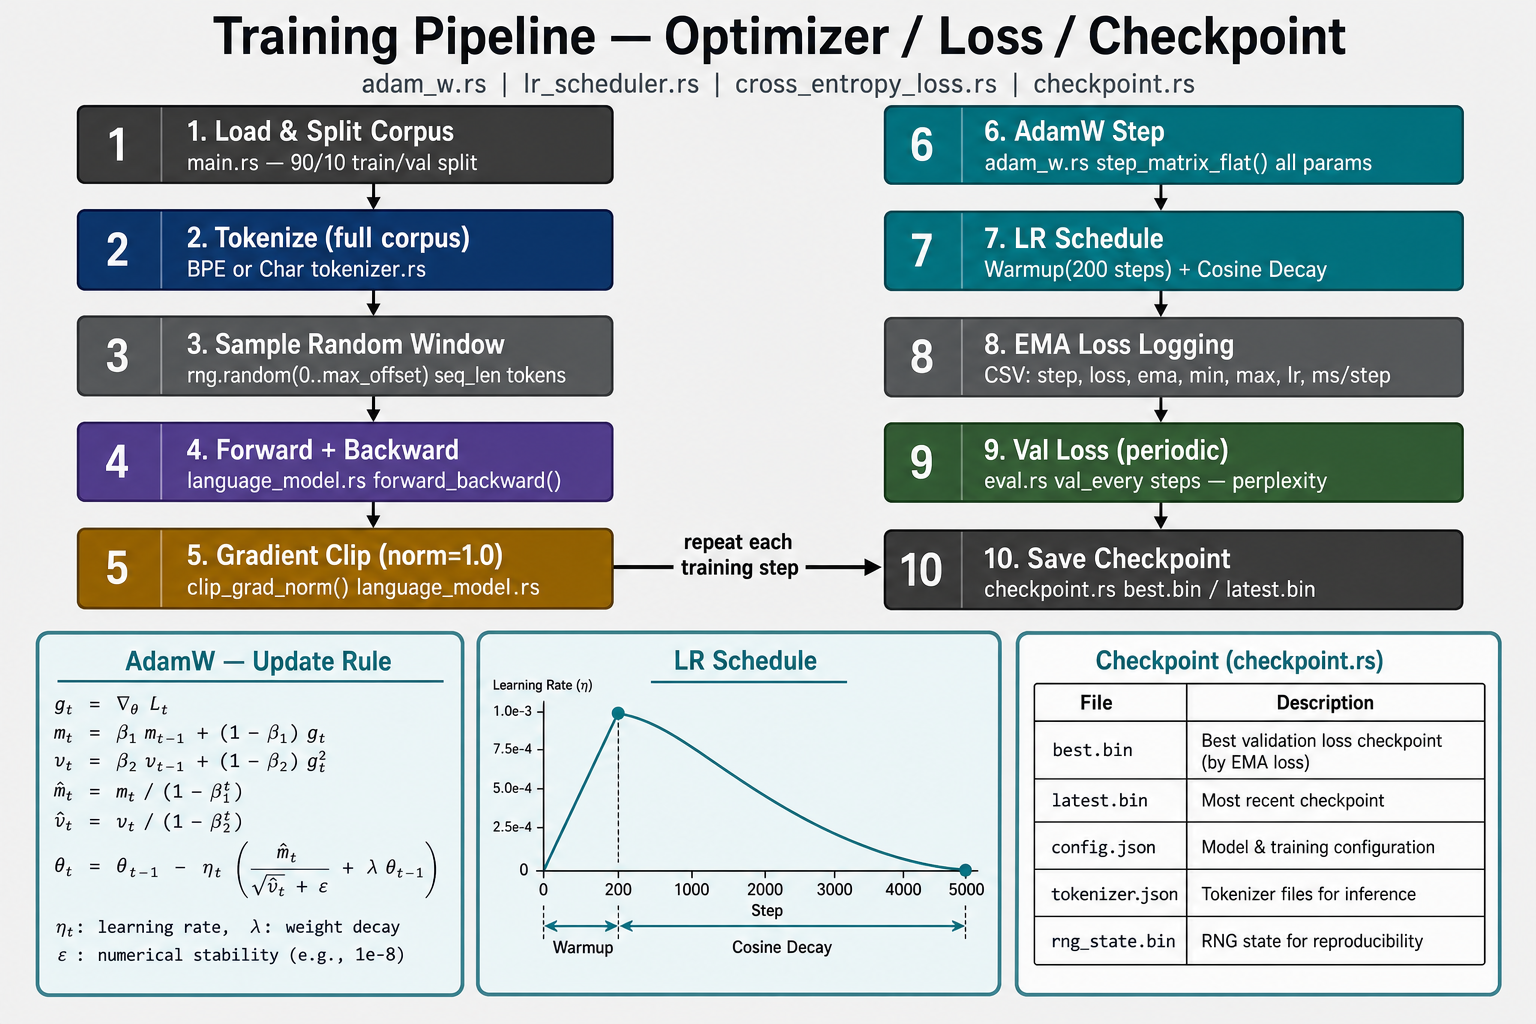
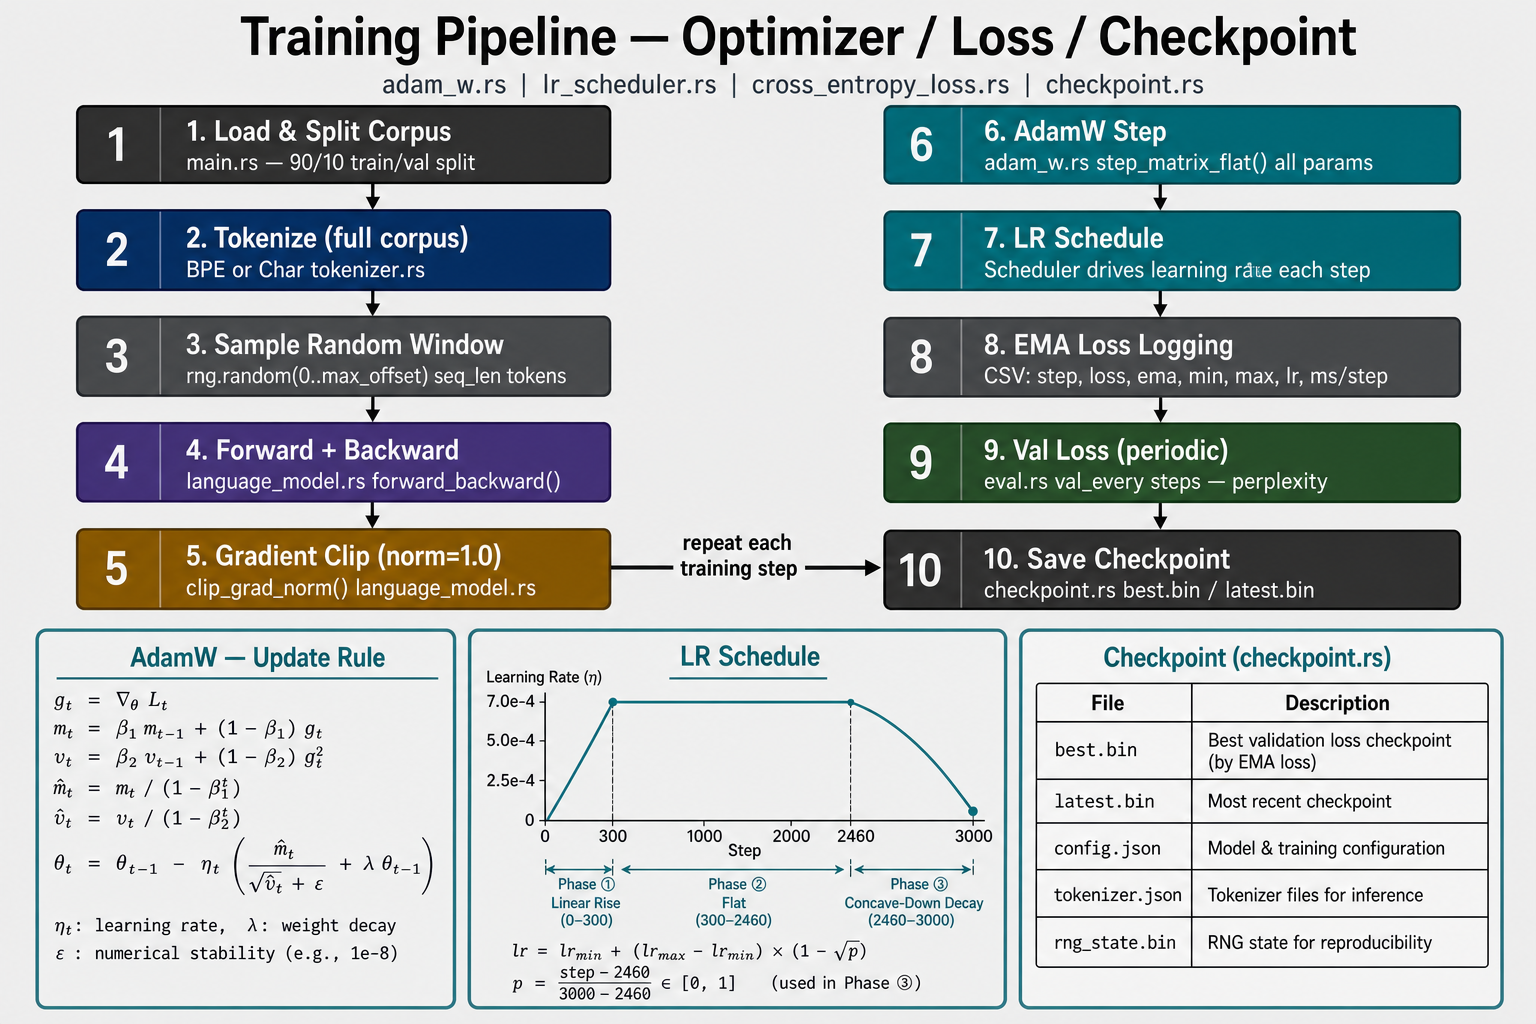
tuningのdocにwsd追加

diff --git a/src/main.rs b/src/main.rs
@@ -675,7 +675,11 @@ fn main() {
     //     cargo run --release 2>&1 | tee logs/phase8a_aozora_wikipedia_mixed_d768_n8_charbpe32k_rms_swiglu_rope_max1024_wsd.log
     //   起動前チェック: tokenizer cache hit を必ず確認 (cache miss だと 110 分の BPE 再訓練が走る)。
     let cfg = Config::aozora_wikipedia_mixed_d768_n8_charbpe32k_max1024_wsd();
-    training_and_inference(&cfg);  // ← 起動するときはコメントを外す
+    // training_and_inference(&cfg);  // ← 起動するときはコメントを外す
+    inference_from_checkpoint(
+        &cfg,
+        "checkpoints/phase8a_aozora_wikipedia_mixed_d768_n8_charbpe32k_rms_swiglu_rope_max1024_wsd/best.bin",
+    );
 
     // 起動前 dry run: tokenizer cache hit と corpus サイズだけ確認したい場合は次行のみ有効化:
     // bench_tokenizer_with_cache(&cfg);

diff --git a/README.md b/README.md
@@ -364,8 +364,8 @@ docs/                              # 詳細ドキュメント (本 README から
 ├── training-pipeline.png          # 学習パイプライン図
 ├── tokenizer-family.png           # Tokenizer 3 実装の比較図
 ├── inference-pipeline.png         # 推論パイプライン (KV cache) 図
-├── learning_rate.png              # tuning.md から参照
-└── lr_schedule.png                # tuning.md から参照
+├── phase7a_loss.png               # Phase 7a 学習曲線 (train/EMA/val loss、 tuning.md から参照)
+└── phase7a_lr.png                 # Phase 7a の WSD LR スケジュール (tuning.md から参照)
 
 checkpoints/<run_name>/
 ├── step_NNNNNN.bin            # 学習途中の checkpoint
